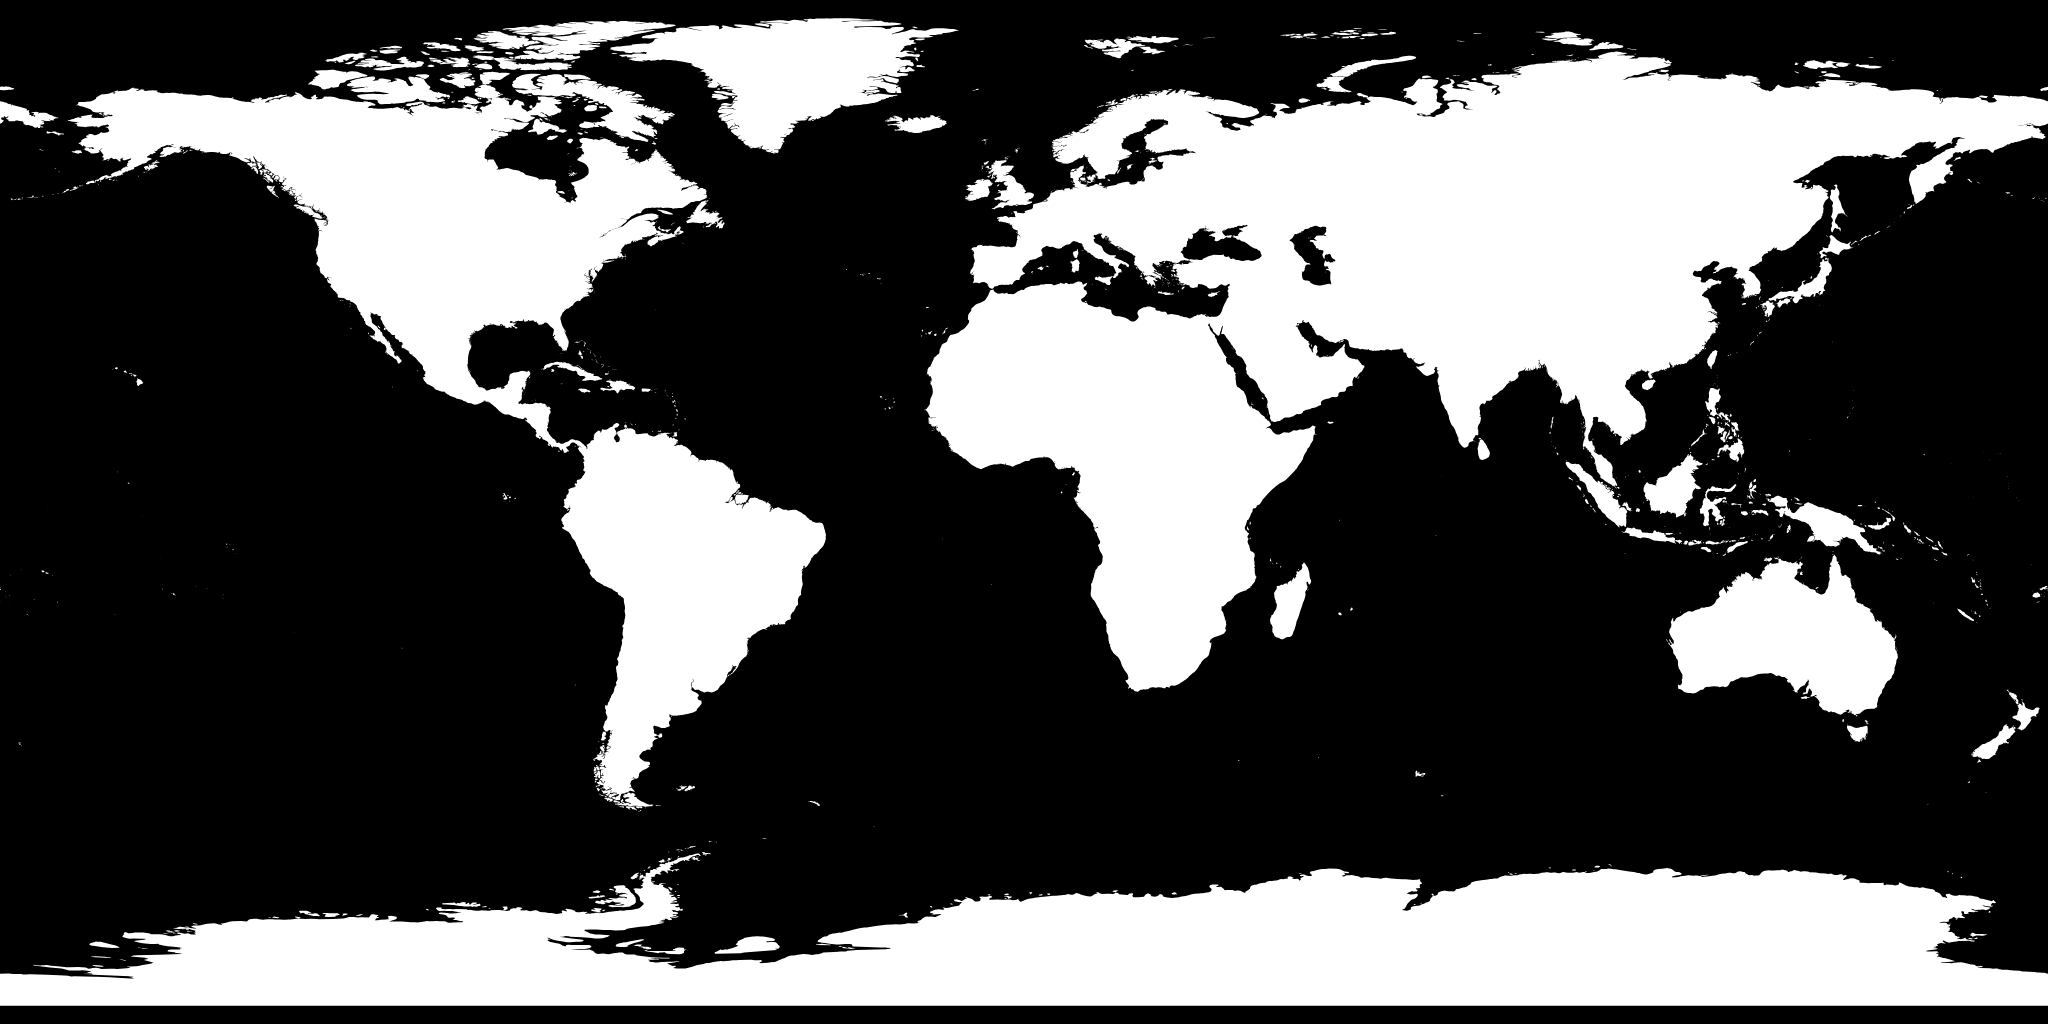
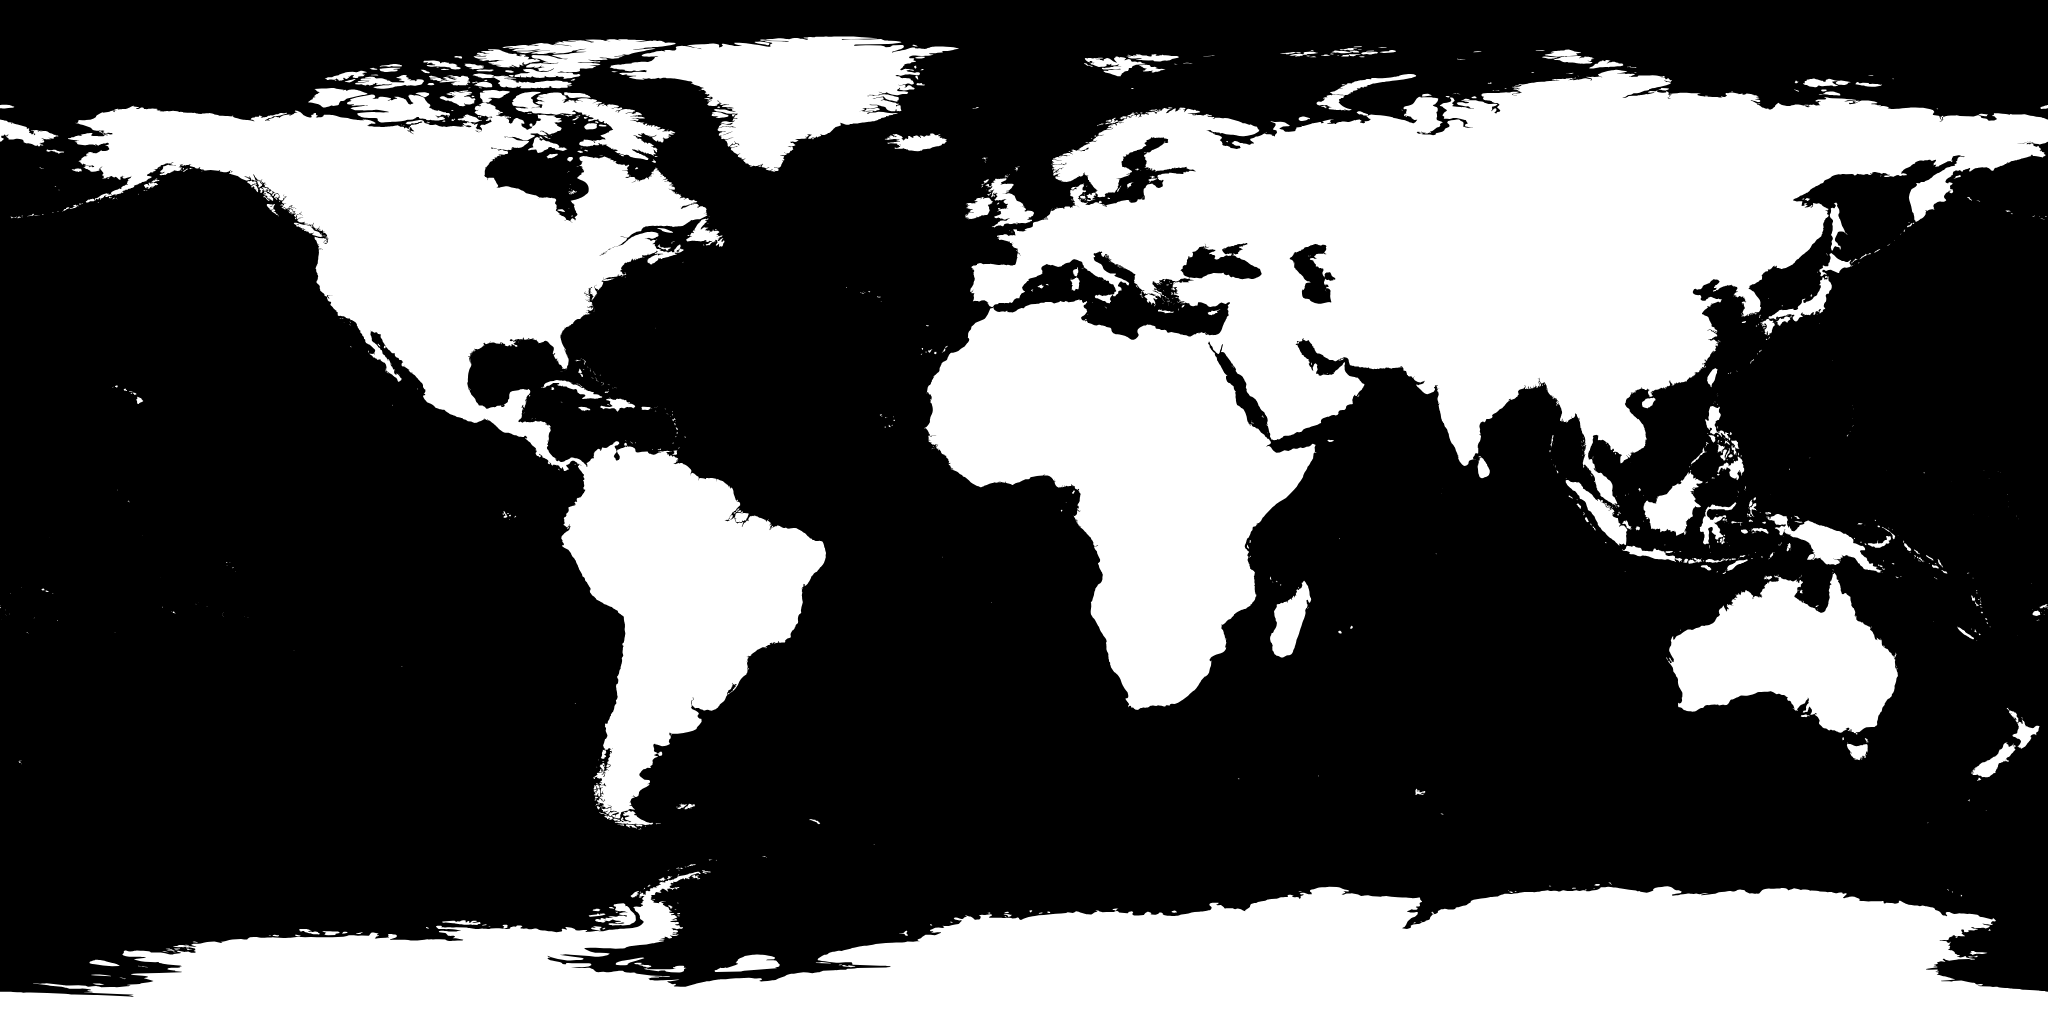
Plan 009 (§3.2): mapa de calor de sentimiento en el globo + fix tunel Cloudflare
Tiñe los puntos de cada continente segun el sentimiento (RISK-ON/OFF) de su
region: nueva mascara de paises (regiones-2048.png) muestreada junto a la de
tierra, atributo aRegion por punto y uniform uSentimiento[8] en el vertex
shader. El calculo real por region (SPX/DAX/FTSE/NIKKEI/SSE/XJO normalizados
a -1..1) se hace en page.tsx con lib/globe/sentimiento.ts y se pasa por
HomeHero hasta el globo.

De paso, dos fixes de la mascara de regiones encontrados al verificar a mano
contra ciudades conocidas: la proyeccion de d3-geo no coincidia con la
formula lineal de muestreo (fitSize ajustaba al bounding box de la tierra,
no al globo completo) y un Map por id de pais perdia Australia por el id
duplicado de "Ashmore and Cartier Is.".

Tambien: allowedDevOrigins para *.trycloudflare.com en next.config.ts —
el tunel de Cloudflare bloqueaba /_next/hmr como cross-origin y el globo
no terminaba de cargar al entrar por ahi.

diff --git a/components/globe/GloboHolografico.tsx b/components/globe/GloboHolografico.tsx
@@ -39,6 +39,9 @@ export interface DatosGlobo {
   // Precio + variacion del dia por simbolo, para las tarjetas emergentes de los pines (plan 009
   // §1.4) — ya calculado en page.tsx/HomeHero.tsx con datos del ticker ya cacheado.
   cotizacionesPines: Record<string, { precio: number; cambio: number | null }>
+  // Score -1..1 por region (1=EEUU, 2=Eurozona, 3=Reino Unido, 4=Japon, 5=China, 6=Australia —
+  // ver scripts/build-globe-mask.mjs) para el mapa de calor del sentimiento (plan 009 §3.2).
+  sentimientoPorRegion: Record<number, number>
 }
 
 interface GloboHolograficoProps {
@@ -212,15 +215,27 @@ function AnilloHud({ config, reducedMotion }: { config: ConfigAnillo; reducedMot
 const PUNTOS_OBJETIVO = 36000
 const PUNTOS_OBJETIVO_BAJA = 18000
 
-function PuntosTierraCapa({ urlMascara, calidadAlta }: { urlMascara: string; calidadAlta: boolean }) {
-  const textura = useLoader(THREE.TextureLoader, urlMascara)
+function PuntosTierraCapa({
+  urlMascara,
+  urlRegiones,
+  calidadAlta,
+  sentimientoPorRegion,
+}: {
+  urlMascara: string
+  urlRegiones: string
+  calidadAlta: boolean
+  sentimientoPorRegion: Record<number, number>
+}) {
+  // Array de URLs: carga las dos texturas en paralelo, un solo Suspense (el de Escena) cubre
+  // ambas en vez de anidar un <Suspense> por textura.
+  const [textura, texturaRegiones] = useLoader(THREE.TextureLoader, [urlMascara, urlRegiones])
   const materialRef = useRef<THREE.ShaderMaterial>(null)
 
   const puntos = useMemo(() => {
-    const image = textura.image as CanvasImageSource
-    const datosImagen = extraerImageData(image, 2048, 1024)
-    return muestrearPuntosTierra(datosImagen, PUNTOS_OBJETIVO, 1337)
-  }, [textura])
+    const datosImagen = extraerImageData(textura.image as CanvasImageSource, 2048, 1024)
+    const datosRegiones = extraerImageData(texturaRegiones.image as CanvasImageSource, 2048, 1024)
+    return muestrearPuntosTierra(datosImagen, PUNTOS_OBJETIVO, 1337, 1, datosRegiones)
+  }, [textura, texturaRegiones])
 
   const geometria = useMemo(() => {
     const geo = new THREE.BufferGeometry()
@@ -228,6 +243,7 @@ function PuntosTierraCapa({ urlMascara, calidadAlta }: { urlMascara: string; cal
     geo.setAttribute('aBrillo', new THREE.BufferAttribute(puntos.aBrillo, 1))
     geo.setAttribute('aFase', new THREE.BufferAttribute(puntos.aFase, 1))
     geo.setAttribute('aVel', new THREE.BufferAttribute(puntos.aVel, 1))
+    geo.setAttribute('aRegion', new THREE.BufferAttribute(puntos.aRegion, 1))
     return geo
   }, [puntos])
 
@@ -247,13 +263,22 @@ function PuntosTierraCapa({ urlMascara, calidadAlta }: { urlMascara: string; cal
     }
   })
 
+  // Array de 8 (indice 0 sin usar, 1-6 = regiones) para que coincida con uniform float
+  // uSentimiento[8] del shader — WebGL no acepta un array mas chico que el declarado.
+  const arregloSentimiento = useMemo(() => {
+    const arr = new Array(8).fill(0)
+    for (let i = 1; i <= 6; i++) arr[i] = sentimientoPorRegion[i] ?? 0
+    return arr
+  }, [sentimientoPorRegion])
+
   const uniforms = useMemo(
     () => ({
       uTiempo: { value: 0 },
       uTam: { value: 0.09 },
       uColor: { value: new THREE.Color(COLOR_PUNTOS) },
+      uSentimiento: { value: arregloSentimiento },
     }),
-    []
+    [arregloSentimiento]
   )
 
   return (
@@ -438,7 +463,12 @@ function Escena({
         {/* useLoader suspende hasta que la mascara carga — sin este limite, React no tiene
             donde atrapar esa suspension dentro del Canvas y la escena entera no pinta nada. */}
         <Suspense fallback={null}>
-          <PuntosTierraCapa urlMascara="/globo/tierra-mascara-2048.png" calidadAlta={calidadAlta} />
+          <PuntosTierraCapa
+            urlMascara="/globo/tierra-mascara-2048.png"
+            urlRegiones="/globo/regiones-2048.png"
+            calidadAlta={calidadAlta}
+            sentimientoPorRegion={datos.sentimientoPorRegion}
+          />
         </Suspense>
 
         {/* Pines de activos: hijos de grupoGlobo para que giren con el planeta (plan 009 §1.2). */}

diff --git a/components/globe/muestrearTierra.ts b/components/globe/muestrearTierra.ts
@@ -21,6 +21,9 @@ export interface PuntosTierra {
   aBrillo: Float32Array
   aFase: Float32Array
   aVel: Float32Array
+  // Id de region de sentimiento (0 = ninguna, 1-6, ver scripts/build-globe-mask.mjs) por punto —
+  // plan 009 §3.2. Queda en 0 para todos si no se pasa `maskRegiones`.
+  aRegion: Float32Array
   count: number
 }
 
@@ -38,16 +41,30 @@ export function extraerImageData(image: CanvasImageSource, width: number, height
 /**
  * Muestrea `cantidadObjetivo` puntos sobre la tierra (uniforme en area esferica: lat = asin(2v-1)),
  * con mas densidad y brillo en la costa (un pixel de tierra con algun vecino de agua en radio 2px).
+ * `maskRegiones`, si se pasa, debe tener el MISMO ancho/alto que `mask` y venir de la misma
+ * proyeccion (scripts/build-globe-mask.mjs genera ambas asi a proposito) — se lee en el mismo
+ * pixel que la mascara de tierra, sin una segunda conversion lat/lon.
  */
-export function muestrearPuntosTierra(mask: ImageData, cantidadObjetivo: number, seed = 1337, radio = 1): PuntosTierra {
+export function muestrearPuntosTierra(mask: ImageData, cantidadObjetivo: number, seed = 1337, radio = 1, maskRegiones?: ImageData): PuntosTierra {
   const rand = mulberry32(seed)
   const { width, height, data } = mask
+  const dataRegiones = maskRegiones?.data
 
   const esTierra = (x: number, y: number): boolean => {
     if (y < 0 || y >= height) return false
     const xi = ((x % width) + width) % width
     const idx = (y * width + xi) * 4
     return data[idx] > 128
+  }
+
+  // El canal R de regiones-2048.png guarda id*40 (ver scripts/build-globe-mask.mjs) — redondear
+  // al multiplo de 40 mas cercano absorbe el antialiasing de los bordes de pais sin confundir
+  // una region con otra (los pasos de 40 estan bien separados).
+  const regionEn = (x: number, y: number): number => {
+    if (!dataRegiones) return 0
+    const xi = ((x % width) + width) % width
+    const idx = (y * width + xi) * 4
+    return Math.round(dataRegiones[idx] / 40)
   }
 
   const esCosta = (x: number, y: number): boolean => {
@@ -64,6 +81,7 @@ export function muestrearPuntosTierra(mask: ImageData, cantidadObjetivo: number,
   const brillos: number[] = []
   const fases: number[] = []
   const velocidades: number[] = []
+  const regiones: number[] = []
 
   // x24 alcanza de sobra (~29% de la mascara es tierra) y corta casi a la mitad el costo
   // sincrono de este muestreo respecto al x60 original — se nota en cuanto tarda en aparecer.
@@ -83,6 +101,7 @@ export function muestrearPuntosTierra(mask: ImageData, cantidadObjetivo: number,
 
     const costa = esCosta(px, py)
     const repeticiones = costa ? 2 + Math.floor(rand() * 2) : 1
+    const region = regionEn(px, py)
 
     for (let r = 0; r < repeticiones && aceptados < cantidadObjetivo; r++) {
       const p = latLonAVector3(lat, lon, radio)
@@ -90,6 +109,7 @@ export function muestrearPuntosTierra(mask: ImageData, cantidadObjetivo: number,
       brillos.push(costa ? 0.85 + rand() * 0.15 : 0.35 + rand() * 0.35)
       fases.push(rand() * Math.PI * 2)
       velocidades.push(0.6 + rand() * 1.2)
+      regiones.push(region)
       aceptados++
     }
   }
@@ -99,6 +119,7 @@ export function muestrearPuntosTierra(mask: ImageData, cantidadObjetivo: number,
     aBrillo: new Float32Array(brillos),
     aFase: new Float32Array(fases),
     aVel: new Float32Array(velocidades),
+    aRegion: new Float32Array(regiones),
     count: aceptados,
   }
 }

diff --git a/app/(site)/page.tsx b/app/(site)/page.tsx
@@ -20,7 +20,7 @@ import { getPivotQuotes } from '@/lib/pivot-data'
 import { calculatePivots } from '@/lib/pivots'
 import { localizedPost, sentimentMeta, timeAgo } from '@/lib/feed'
 import { scanTradingView } from '@/lib/markets'
-import { calcularSentimiento, type ResultadoSentimiento } from '@/lib/globe/sentimiento'
+import { calcularSentimiento, normalizarCambio, type ResultadoSentimiento } from '@/lib/globe/sentimiento'
 import type { PostWithRelations } from '@/lib/types'
 import type { NoticiaPreview, CotizacionPreview, PivotePreview } from '@/components/modules/HomeFeatures'
 
@@ -137,6 +137,11 @@ export default async function HomePage({
   // (no estan en el ticker) y se delega el calculo a una funcion pura y testeada
   // (lib/globe/sentimiento.ts), nunca inline aca.
   let riesgo: ResultadoSentimiento | null = null
+  // Mapa region->score para el mapa de calor del globo (plan 009 §3.2): mismas regiones que
+  // scripts/build-globe-mask.mjs (1 EE.UU./SPX, 2 Eurozona/DAX, 3 Reino Unido/FTSE, 4 Japon/NIKKEI,
+  // 5 China/SSE, 6 Australia/XJO). Si falta un dato, normalizarCambio(null) da 0 — ese continente
+  // simplemente se queda sin tiñe, no rompe el resto del mapa.
+  let sentimientoPorRegion: Record<number, number> = {}
   try {
     const filas = await scanTradingView(GLOBE_EXTRA.map((a) => a.tv), ['change'])
     const porTicker = new Map(filas.map((f) => [f.s, f.d]))
@@ -145,16 +150,27 @@ export default async function HomePage({
       const v = d?.[0]
       return typeof v === 'number' ? v : null
     }
+    const sse = cambioDe('TVC:SHCOMP')
+    const xjo = cambioDe('TVC:XJO')
     riesgo = calcularSentimiento({
       spx: cotizacionesGlobo.SPX?.cambio ?? null,
       dax: cotizacionesGlobo.DAX?.cambio ?? null,
       nikkei: cotizacionesGlobo.NIKKEI?.cambio ?? null,
       ftse: cotizacionesGlobo.FTSE?.cambio ?? null,
-      sse: cambioDe('TVC:SHCOMP'),
+      sse,
       vix: cotizacionesGlobo.VIX?.cambio ?? null,
     })
+    sentimientoPorRegion = {
+      1: normalizarCambio(cotizacionesGlobo.SPX?.cambio ?? null),
+      2: normalizarCambio(cotizacionesGlobo.DAX?.cambio ?? null),
+      3: normalizarCambio(cotizacionesGlobo.FTSE?.cambio ?? null),
+      4: normalizarCambio(cotizacionesGlobo.NIKKEI?.cambio ?? null),
+      5: normalizarCambio(sse),
+      6: normalizarCambio(xjo),
+    }
   } catch {
-    // riesgo se queda null — el chip del globo simplemente no se muestra.
+    // riesgo se queda null y sentimientoPorRegion vacio — el chip y el tiñe del globo
+    // simplemente no se muestran, no tumban el resto de la home.
   }
 
   // Un solo pedido a getPivotQuotes('D') alimenta la vista previa chica del hero (BTC, classic
@@ -201,6 +217,7 @@ export default async function HomePage({
         pivotePreview={pivotePreview}
         cotizacionesGlobo={cotizacionesGlobo}
         riesgo={riesgo}
+        sentimientoPorRegion={sentimientoPorRegion}
       />
 
       <main id="main-content" tabIndex={-1} className="flex-grow pb-24 pt-10 max-w-[1200px] mx-auto px-6 md:px-8 w-full">

diff --git a/components/globe/shaders.ts b/components/globe/shaders.ts
@@ -29,14 +29,22 @@ export const baseFragmentShader = /* glsl */ `
 `
 
 // --- Puntos de los continentes ---
+// uSentimiento[8]: score -1..1 por region de lib/globe/sentimiento.ts (indice 0 sin usar, 1-6
+// las regiones de scripts/build-globe-mask.mjs). El resto del globo (aRegion=0) se queda cian.
+// Plan 009 §3.2 — version acotada: tiñe por region, sin brillo-por-sesion en el shader (eso
+// sigue resuelto con los nodos discretos de NodosSesion.tsx, no punto por punto).
 export const puntosVertexShader = /* glsl */ `
   attribute float aBrillo;
   attribute float aFase;
   attribute float aVel;
+  attribute float aRegion;
   uniform float uTiempo;
   uniform float uTam;
+  uniform vec3 uColor;
+  uniform float uSentimiento[8];
   varying float vBrillo;
   varying float vCara;
+  varying vec3 vColorRegion;
 
   void main() {
     // El globo es una esfera centrada en el origen: la normal de cada punto es su propia
@@ -50,6 +58,13 @@ export const puntosVertexShader = /* glsl */ `
     float parpadeo = 0.75 + 0.25 * sin(uTiempo * aVel + aFase);
     vBrillo = aBrillo * parpadeo;
 
+    int region = int(aRegion + 0.5);
+    float s = (region > 0 && region < 8) ? uSentimiento[region] : 0.0;
+    vec3 verde = vec3(0.133, 0.773, 0.369);
+    vec3 rojo = vec3(1.0, 0.231, 0.188);
+    float mezcla = min(abs(s), 1.0) * 0.65;
+    vColorRegion = s > 0.0 ? mix(uColor, verde, mezcla) : mix(uColor, rojo, mezcla);
+
     gl_Position = projectionMatrix * mvPosition;
     // clamp(1.0, 4.5): con uTam=3.4 (el valor anterior) y la camara a z=5.2, esto daba
     // 300/5 * 3.4 ~= 200px POR PUNTO. Con 22k puntos aditivos eso funde todo en una masa
@@ -61,16 +76,16 @@ export const puntosVertexShader = /* glsl */ `
 `
 
 export const puntosFragmentShader = /* glsl */ `
-  uniform vec3 uColor;
   varying float vBrillo;
   varying float vCara;
+  varying vec3 vColorRegion;
   void main() {
     vec2 coord = gl_PointCoord - vec2(0.5);
     float dist = length(coord);
     if (dist > 0.5) discard;
     float suavidad = smoothstep(0.5, 0.15, dist);
     float atenuacion = vCara > 0.0 ? 1.0 : 0.25;
-    gl_FragColor = vec4(min(uColor * max(vBrillo, 0.0) * atenuacion, vec3(4.0)), clamp(suavidad * atenuacion, 0.0, 1.0));
+    gl_FragColor = vec4(min(vColorRegion * max(vBrillo, 0.0) * atenuacion, vec3(4.0)), clamp(suavidad * atenuacion, 0.0, 1.0));
   }
 `
 

diff --git a/next.config.ts b/next.config.ts
@@ -31,6 +31,18 @@ const securityHeaders = [
 
 const nextConfig: NextConfig = {
   poweredByHeader: false,
+  // Solo importa en dev: permite que el websocket de HMR (/_next/hmr) conteste pedidos de un
+  // tunel de Cloudflare (cloudflared tunnel --url), que sirve el sitio desde un host *.trycloudflare.com
+  // en vez de localhost. Sin esto, Next bloquea esos pedidos cross-origin por seguridad (ver
+  // node_modules/next/dist/docs/.../allowedDevOrigins.md) y el globo (que depende del chunk
+  // cargado por HMR) se queda sin terminar de cargar al entrar por el tunel — el log mostraba
+  // "Blocked cross-origin request to Next.js dev resource /_next/hmr" seguido de cloudflared
+  // reportando la respuesta como "malformed... Unauthorized", que es la consecuencia, no la
+  // causa. `*.trycloudflare.com` (un solo nivel de subdominio) cubre cualquier tunel nuevo:
+  // cloudflared genera un subdominio al azar cada vez que se corre `tunnel --url`, nunca el
+  // mismo dos veces, asi que el host especifico del log (assets-opt-snowboard-mini...) habria
+  // dejado de servir apenas se reinicie el tunel.
+  ...(isDev ? { allowedDevOrigins: ["*.trycloudflare.com"] } : {}),
   images: {
     remotePatterns: [
       {

diff --git a/components/modules/HomeHero.tsx b/components/modules/HomeHero.tsx
@@ -25,6 +25,7 @@ interface HomeHeroProps {
   pivotePreview: PivotePreview | null
   cotizacionesGlobo: Record<string, { precio: number; cambio: number | null }>
   riesgo: ResultadoSentimiento | null
+  sentimientoPorRegion: Record<number, number>
 }
 
 export function HomeHero({
@@ -37,6 +38,7 @@ export function HomeHero({
   pivotePreview,
   cotizacionesGlobo,
   riesgo,
+  sentimientoPorRegion,
 }: HomeHeroProps) {
   const dict = getDictionary(locale).home
   const numberLocale = locale === 'en' ? 'en-US' : 'es-ES'
@@ -126,6 +128,7 @@ export function HomeHero({
     etiquetaNoticias: `${postCount.toLocaleString(numberLocale)} ${dict.globeLabelNoticias}`,
     etiquetaActivos: `${assetCount.toLocaleString(numberLocale)} ${dict.globeLabelActivos}`,
     cotizacionesPines: cotizacionesGlobo,
+    sentimientoPorRegion,
   }
 
   return (

diff --git a/lib/globe/sentimiento.ts b/lib/globe/sentimiento.ts
@@ -46,3 +46,12 @@ export function calcularSentimiento(entrada: EntradaSentimiento): ResultadoSenti
 
   return { score, clasificacion }
 }
+
+// Plan 009 §3.2: normaliza el % de cambio diario de UN indice a un score -1..1 para tiñir su
+// region en el globo (ver uSentimiento en components/globe/shaders.ts). /1.5 porque un movimiento
+// diario de 1.5% en un indice amplio (SPX/DAX/NIKKEI/FTSE/SSE/ASX) ya es un dia volatil — eso
+// satura el color al maximo en vez de necesitar un crash de varios puntos porcentuales para verse.
+export function normalizarCambio(cambio: number | null): number {
+  if (cambio == null) return 0
+  return Math.max(-1, Math.min(1, cambio / 1.5))
+}
